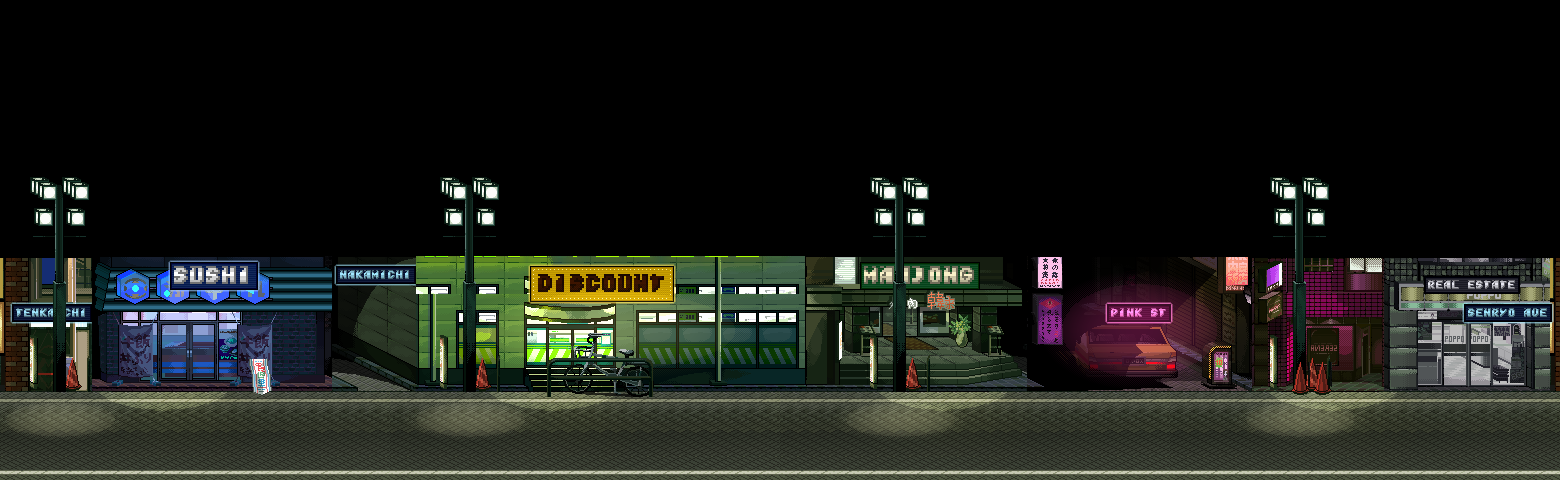
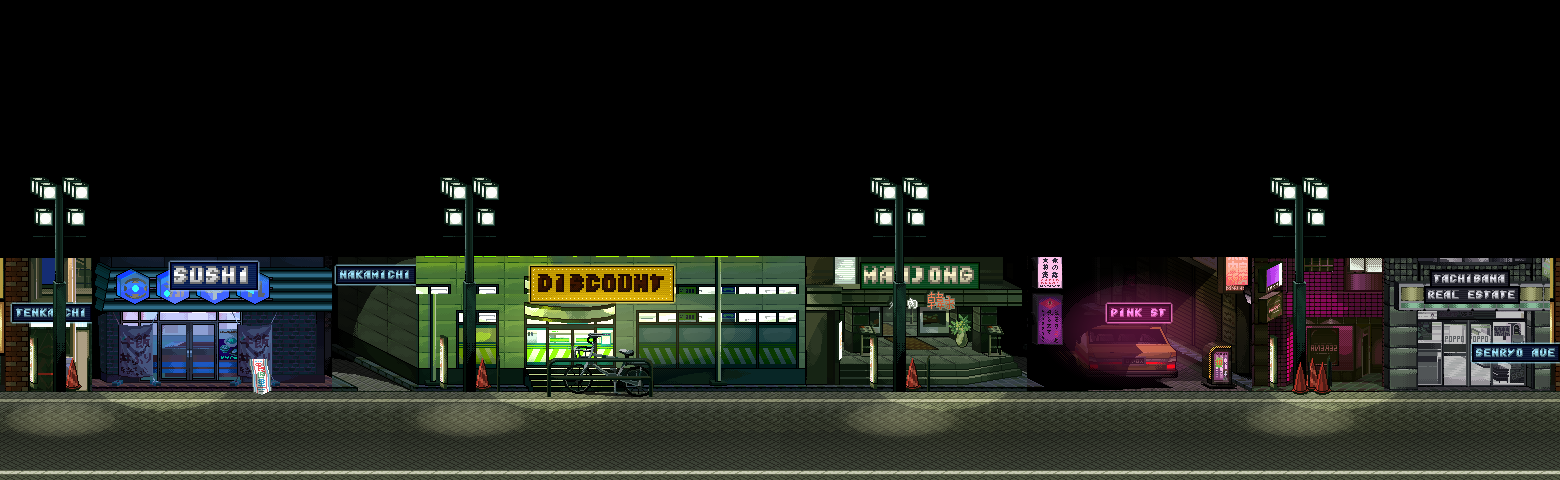
Yakuza 0's first chapter, Bound by Oath, after the prologue
At Heroine, Nishiki's toast to Kazama; the news of the shooting in the Empty Lot; Daisaku Kuze's boss fight there;
Kiryu leaving the Dojima family; and Tachibana Real Estate on Showa Street. Yakuza 0's story beats in this game's
own words, each next place flagged on the Map.

Claude-Session: https://claude.ai/code/session_01No5GwW2AvnCcQDGrNA3TLc

Changed region(s): [[0.8923, 0.5625, 1.0, 0.7812]]

diff --git a/ui/game.js b/ui/game.js
@@ -3022,7 +3022,7 @@
   const DOMINO_DUELISTS = { DominoHigh_Person12: "yugi", DominoHigh_Person13: "tea", DominoHigh_Person14: "joey", DominoHigh_Person15: "tristan" };
   // (The Time Machine off Pallet Town, and the Realm Hub's portals: timeMachine, realmPortal.)
   for (const sc of ["TimeMachine_EventScript_Machine", "TimeMachine_EventScript_Sign", "TimeMachine_EventScript_Scientist",
-    "RealmHub_EventScript_Portal_pokemon", "RealmHub_EventScript_Portal_yugioh", "RealmHub_EventScript_Portal_yakuza", "Kamurocho_TimeMachine", "Kamurocho_Kiryu", "Kamurocho_Majima", "Kamurocho_Clerk", "Kamurocho_Karaoke", "SacredCards_Fountain", "SacredCards_BackToTown",
+    "RealmHub_EventScript_Portal_pokemon", "RealmHub_EventScript_Portal_yugioh", "RealmHub_EventScript_Portal_yakuza", "Kamurocho_TimeMachine", "Kamurocho_Kiryu", "Kamurocho_Majima", "Kamurocho_Clerk", "Kamurocho_Karaoke", "Kamurocho_Tachibana", "SacredCards_Fountain", "SacredCards_BackToTown",
     "Domino_WorldMap", "KameGame_Grandpa", "Domino_Manhole", "Domino_ManholeUp", "Domino_TimeMachine", ...Object.keys(DOMINO_DUELISTS)]) SPECIAL.add(sc);
   // (and the other pupils and the teacher, with their boosters' decks: classmate)
   for (let i = 0; i < 12; i++) SPECIAL.add("DominoHigh_Person" + i);
@@ -3397,6 +3397,7 @@
     if (script === "Kamurocho_Majima") { await kamurochoMajima(ev.person); return; }
     if (script === "Kamurocho_Clerk") { await kamurochoShop(); return; }
     if (script === "Kamurocho_Karaoke") { await kamurochoKaraoke(); return; }
+    if (script === "Kamurocho_Tachibana") { await kamurochoTachibana(); return; }
     if (DOMINO_DUELISTS[script]) { await dominoDuel(DOMINO_DUELISTS[script], ev.person); return; }
     if (/^DominoHigh_Person([0-9]|1[01])$/.test(script || "")) { await dominoDuel(classmate(script), ev.person); return; }
     if (ev.person && ev.person.ferry && isSinnoh(ev.map)) { await sinnohFerry(ev.person); return; }
@@ -10202,7 +10203,7 @@
       if (wm) {
         const [wx, wy] = T(wm.at ? along(Mp[wm.at[0]].line, wm.at[1]) : along(wm.line, 0.5)).map(Math.round);
         sf.fill(wx, wy - 12, 1, 12, [240, 240, 240]); sf.fill(wx + 1, wy - 12, 6, 4, [232, 48, 48]); sf.fill(wx + 1, wy - 8, 4, 1, [232, 48, 48]);
-        sf.text("\u25b6 " + ((K.scenes[wp] || {}).title || wp), 150, 148, [255, 120, 120], INK, "small");
+        sf.text("\u25b6 " + ((K.scenes[wp] || {}).title || wm.title || wp), 150, 148, [255, 120, 120], INK, "small");
       }
       if (Mp[here] && Mp[here].line && blink) {
         const [x, y] = T(along(Mp[here].line, frac)).map(Math.round);
@@ -10336,20 +10337,138 @@
     await say(["Kiryu and Nishiki are headed for\nHeroine, the karaoke bar in Theater\nSquare.", "It's marked on your Map\n(START, then Map)."]);
     await persist();
   }
-  // (Coming into a street: a scene to play there, or reaching where the Map marks: for ui/street.js's enter.)
+  // (Coming into a street: a scene to play there, or reaching where the Map marks: for ui/street.js's enter. The
+  // story's step: flags.y0Step, "drinking" (at Heroine), "lot" (to the Empty Lot), "tachibana" (to Tachibana Real
+  // Estate on Showa Street), "done".)
   function kamurochoEnter(sceneId) {
     const f = player.flags;
     if (sceneId === "street" && !f.y0Prologue) return { type: "prologue" };
-    if (sceneId === "heroine" && f.kamurochoWaypoint === "heroine") return { type: "heroine" };
+    // (a save from before the story went on past Heroine: its evening there again)
+    if (sceneId === "heroine" && (f.kamurochoWaypoint === "heroine" || (f.y0Prologue && !f.y0Step))) return { type: "heroine" };
+    if (sceneId === "theater" && f.y0Step === "drinking") return { type: "y0-news" };
+    if (sceneId === "alley" && f.y0Step === "lot") return { type: "y0-lot" };
     return null;
   }
+  // Yakuza 0's first chapter, Bound by Oath, as this game tells it (its beats, in words of its own). At Heroine,
+  // Kiryu and Nishiki drink to the night and to Kazama, their oyaji, in prison.
   async function kamurochoHeroine() {
-    player.flags.kamurochoWaypoint = null;
-    await say(["Heroine's lights are low, and the\nkaraoke's loud.", "Nishiki: Hey, you made it! Grab a\nmic, the night's young!"]);
+    const f = player.flags;
+    f.kamurochoWaypoint = null; f.y0Step = "drinking";
+    await say(["Heroine's lights are low, and the\nkaraoke's loud.", "Nishiki: Hey, you made it! Kiryu,\nyou know this one? They're with us\ntonight.",
+      "Kiryu: ...Any friend of Nishiki's.", "Nishiki: To the Dojima family! And to\nKazama-san. May he get out of that\nprison before we're old men.",
+      "Kiryu: He took us in when nobody\nelse would. We owe him everything.", "Nishiki: That's why we've gotta make\nsomething of ourselves, brother.",
+      "Someday I'll have a family of my\nown. And you'll be right beside me.", "Kiryu: Heh. One drink at a time.",
+      "Nishiki: Now get up there and sing!\nThe stage is right over there."]);
     await persist();
   }
-  // The karaoke box off Theater Square (ui/karaoke.js, data/karaoke-songs.js): a song, sung; each song's best score
-  // kept (flags.karaoke), and the first time one scores 90 or more, a Staminan Spark on the house.
+  // Out into Theater Square: a Dojima man with the news. The man Kiryu collected from tonight is dead, shot in the
+  // Empty Lot, and the street says Kiryu did it.
+  async function kamurochoNews() {
+    const f = player.flags, here = Street.here() || { x: 1210, y: 440 };
+    await Street.cutscene([
+      { scene: "theater", cam: [1120, 440] },
+      { actor: "kiryu", sprite: "kiryu_idle", walk: "kiryu_idle_walk", x: 1200, y: 436, face: "left" },
+      { actor: "nishiki", sprite: "nishiki", walk: "nishiki_walk", x: 1250, y: 446, face: "left" },
+      { actor: "runner", sprite: "grunt_idle", walk: "grunt_idle_walk", x: 860, y: 444, face: "right" },
+      { walk: "runner", to: [1130, 444], speed: 2.6 },
+      { say: ["Dojima man: Kiryu-san! Thank god\nI found you!", "That guy you collected from\ntonight... they found him in the\nEmpty Lot.",
+        "Shot. Dead.", "Kiryu: ...What?", "Dojima man: The cops are crawling\nall over it. And the word on the\nstreet is...",
+        "...it was you, Kiryu-san.", "Kiryu: I roughed him up. That's all.\nHe walked away on his own two feet.",
+        "Nishiki: Somebody's setting you up,\nKiryu. That lot's trouble. The whole\nfamily wants it.",
+        "Kiryu: Then I'll go and see it for\nmyself."] },
+      { walk: "runner", to: [820, 444], speed: 2.6 },
+      { gone: "runner" }
+    ], { say });
+    f.y0Step = "lot"; f.kamurochoWaypoint = "alley";
+    show("street");
+    if (!inRealmParty("yakuza", "kiryu")) {
+      const P = realmParty("yakuza"), where = realmJoin(P, Ultimax.recruit("kiryu", Math.max(3, realmMe(P).lv)));
+      await fanfare("mus_obtain_key_item");
+      await say([realmWrap("Kiryu: You're coming too? ...Fine.\nStay close."), realmWrap("Kazuma Kiryu joined the party!" + JOINED[where])]);
+    }
+    await say(["The Empty Lot's marked on your Map:\noff the far end of the street, past\nBacchus."]);
+    await persist();
+  }
+  // The Empty Lot: the tiny lot the whole Tojo Clan wants, for the Kamurocho Revitalization Project, and now a
+  // murder scene. Daisaku Kuze, one of the Dojima family's lieutenants, comes for Kiryu: a fight. Beaten, he gets up
+  // again (he always does), and goes. Kiryu chooses to leave the family, so the shame is his, not Kazama's; Nishiki
+  // begs him not to.
+  async function kamurochoLot() {
+    const f = player.flags;
+    await Street.cutscene([
+      { scene: "alley", cam: [300, 446] },
+      { actor: "kiryu", sprite: "kiryu_idle", walk: "kiryu_idle_walk", x: 200, y: 448, face: "right" },
+      { say: ["The Empty Lot. Rope across it now,\nand a dark stain on the ground.", "Kiryu: One tsubo of dirt. Barely\nroom to stand.",
+        "And every family in the Tojo Clan\nwould kill for it.", "The Kamurocho Revitalization Project\ncan't break ground without it..."] },
+      { actor: "kuze", sprite: "grunt_idle", walk: "grunt_idle_walk", x: 660, y: 452, face: "left" },
+      { walk: "kuze", to: [420, 452], speed: 1.2 },
+      { face: "kiryu", dir: "right" },
+      { say: ["???: So the killer comes back to the\nscene. Ain't that just like a\npunk.", "Kiryu: ...Kuze-san.",
+        "Kuze: Daisaku Kuze, Dojima family\nlieutenant. Thanks to you, the\nfamily's name is mud.",
+        "A body on the one patch of dirt\nthe boss needs. You know what that\ndoes to us?",
+        "Kiryu: I didn't kill anyone.", "Kuze: Don't matter what you did.\nMatters what they're sayin'.",
+        "And a dog that shames its master\ngets put down. Hands up, Kiryu!"] }
+    ], { say });
+    show("street");
+    const r = await realmFight(["kuze"], { intro: "Daisaku Kuze wants to fight!", keepGoing: true });
+    if (r !== "won") {
+      await say(["Kuze: Hah! That the best the Dragon\nof Dojima's got?", "Come back when you've learned your\nplace. I'll be right here."]);
+      await persist();
+      return;
+    }
+    await Street.cutscene([
+      { scene: "alley", cam: [300, 446] },
+      { actor: "kiryu", sprite: "kiryu_idle", walk: "kiryu_idle_walk", x: 200, y: 448, face: "right" },
+      { actor: "kuze", sprite: "grunt_idle", walk: "grunt_idle_walk", x: 420, y: 452, face: "left" },
+      { say: ["Kuze hits the dirt... and gets\nright back up.", "Kuze: Heh... You hit like a truck,\nKiryu. But I ain't done.",
+        "A man ain't beaten till he stops\ngettin' up. Remember that.", "This ain't over. The family's gonna\nhave its pound of flesh."] },
+      { walk: "kuze", to: [680, 452], speed: 1.4 },
+      { gone: "kuze" },
+      { actor: "nishiki", sprite: "nishiki", walk: "nishiki_walk", x: -20, y: 452, face: "right" },
+      { walk: "nishiki", to: [130, 452], speed: 2.2 },
+      { face: "kiryu", dir: "left" },
+      { say: ["Nishiki: Kiryu! I heard about Kuze.\nYou alright?", "Kiryu: Nishiki. I've made up my\nmind.",
+        "I'm leaving the Dojima family.", "Nishiki: What?! Are you out of your\nmind? After everything?",
+        "Kiryu: As long as I'm in the family,\nthis shame lands on Kazama-san.", "If I'm out, it's only mine. I'll\nclear my name on my own.",
+        "Nishiki: ...You stubborn idiot.\nYou never could do it any other way.", "Fine. But I'm still your brother.\nCall me if you need me.",
+        "Kiryu: Look after Kazama-san's place\nin the family for me."] },
+      { walk: "nishiki", to: [-40, 452], speed: 1.6 },
+      { gone: "nishiki" },
+      { say: ["Kiryu: ...Someone wanted me in the\nframe for this. And someone owns\nthis lot.", "If the family won't find out who,\nI will.",
+        "End of Chapter 1: Bound by Oath."] }
+    ], { say });
+    f.y0Step = "tachibana"; f.kamurochoWaypoint = "tachibana";
+    show("street");
+    await say(["Word is a real estate firm on Showa\nStreet knows plenty about the Empty\nLot.", "Tachibana Real Estate is marked on\nyour Map."]);
+    await persist();
+  }
+  // Tachibana Real Estate, on Showa Street: Kiryu, out of the family, meets Tetsu Tachibana, its young boss, and
+  // Makoto Oda, his man. They're after the Empty Lot too, and they'll help him find who's behind it.
+  async function kamurochoTachibana() {
+    const f = player.flags;
+    if (f.y0Step !== "tachibana") {
+      await say(f.y0Step === "done" ? ["Oda: The boss is out on business.\nWe'll find that lot's owner, Kiryu.\nJust you wait."]
+        : ["Tachibana Real Estate. The blinds\nare down, and nobody answers."]);
+      return;
+    }
+    await Street.cutscene([
+      { scene: "showa", cam: [1440, 440] },
+      { actor: "kiryu", sprite: "kiryu_idle", walk: "kiryu_idle_walk", x: 1300, y: 446, face: "right" },
+      { actor: "oda", sprite: "host_idle", x: 1500, y: 440, face: "left" },
+      { say: ["Oda: Kazuma Kiryu, right? Formerly of\nthe Dojima family. News travels\nfast round here.",
+        "Name's Makoto Oda. My boss has been\nwanting to meet you."] },
+      { actor: "tachibana", sprite: "salaryman_idle", x: 1560, y: 430, face: "left" },
+      { walk: "kiryu", to: [1420, 446] },
+      { say: ["Tachibana: Tetsu Tachibana. This\nhumble office is mine.", "You've been framed over the Empty\nLot. We'd like to know who owns it\nas much as you would.",
+        "Every developer and every Tojo family\nin town is chasing that one tsubo.", "Someone's hiding its owner. Find them,\nand you'll find who set you up.",
+        "Work with us, Kiryu-san. We have the\nmoney and the paperwork. You have\nthe fists.",
+        "Kiryu: ...I'm not much for real\nestate.", "Tachibana: You will be. Kamurocho's\nland is worth more than gold right\nnow.",
+        "Kiryu: Fine. Until my name's clean.", "To be continued..."] }
+    ], { say });
+    f.y0Step = "done"; f.kamurochoWaypoint = null;
+    show("street");
+    await persist();
+  }
   async function kamurochoKaraoke() {
     await say("Welcome to the karaoke box!\nPick a song and give it your all!");
     const S = window.KARAOKE_SONGS, best = player.flags.karaoke = player.flags.karaoke || {};
@@ -16044,6 +16163,8 @@
     } else if (ev.type === "say") await say(ev.pages);
     else if (ev.type === "prologue") await kamurochoPrologue();
     else if (ev.type === "heroine") await kamurochoHeroine();
+    else if (ev.type === "y0-news") await kamurochoNews();
+    else if (ev.type === "y0-lot") await kamurochoLot();
     else if (ev.type === "talk") await story({ type: "talk", person: ev.person, map: "Kamurocho" });
     else if (ev.type === "spot") await story({ type: "talk", person: { script: ev.script }, map: "Kamurocho" });
     // (A gang that walked up to you: that gang, its leader's line first.)

diff --git a/data/kamurocho-street.js b/data/kamurocho-street.js
@@ -68,7 +68,7 @@ window.KAMUROCHO_STREET = {
       champion: { line: [[314, 226], [340, 226], [340, 208], [358, 208], [358, 226], [368, 226]], w: 1 },
       "nakamichi-alley": { line: [[142, 338], [170, 338], [170, 322], [197, 322]], w: 1 },
       "pink-alley": { line: [[306, 344], [368, 344]], w: 1 },
-      heroine: { at: ["theater", 0.94] }, poppo: { at: ["street", 0.24] }, backlot: { at: ["street", 0.17] }, sewer: { at: ["street", 0.17] }, bacchus: { at: ["street", 0.97] }
+      heroine: { at: ["theater", 0.94] }, tachibana: { at: ["showa", 0.94], title: "Tachibana Real Estate" }, poppo: { at: ["street", 0.24] }, backlot: { at: ["street", 0.17] }, sewer: { at: ["street", 0.17] }, bacchus: { at: ["street", 0.97] }
     }
   },
   scenes: {
@@ -270,6 +270,8 @@ window.KAMUROCHO_STREET = {
         { edge: "right", to: "senryo", x: 30, y: 440, facing: "right" },
         { spot: [332, 416, 410, 426], to: "nakamichi", x: 1370, y: 440, facing: "left", text: "Nakamichi Street" },
         { spot: [1037, 1242, 410, 426], to: "pink", x: 30, y: 440, facing: "right", text: "Pink Street" }],
+      // (Tachibana Real Estate's door: the story's, ui/game.js kamurochoTachibana)
+      spots: [{ x0: 1400, x1: 1540, y0: 410, y1: 426, script: "Kamurocho_Tachibana", text: "Tachibana Real Estate" }],
       people: [
         { script: "Kamurocho_Bargain", sprite: "tourist", walk: "tourist_walk", range: 80, x: 320, y: 444, face: "right",
           text: ["The discount store's got\neverything. Everything!", "I came for toothpaste. I'm\nleaving with a massage chair."] },

diff --git a/data/type-chart.js b/data/type-chart.js
@@ -481,6 +481,9 @@ window.REALM_FOES = {
   biker:     { name: "Biker", lv: 7,           elements: ["Neutral"], street: "biker", sprite: "sc_person_58", hp: 34, mp: 0, str: 17, def: 12, int: 14, wis: 6, spd: 11, exp: 16, money: 300, skills: ["revving"] },
   grunt:     { name: "Yakuza Grunt", lv: 9,    elements: ["Neutral"], street: "grunt", sprite: "sc_person_77", hp: 40, mp: 0, str: 19, def: 14, int: 0, wis: 7, spd: 10, exp: 22, money: 500, skills: ["headbutt"] },
   shakedown: { name: "Mr. Shakedown", lv: 15,   elements: ["Neutral"], street: "shakedown", sprite: "sc_person_71", big: true, hp: 160, mp: 0, str: 32, def: 22, int: 0, wis: 11, spd: 6, exp: 150, money: 10000, skills: ["haymaker"] },
+  // (the story's: Daisaku Kuze, the Dojima family lieutenant who comes for Kiryu at the Empty Lot)
+  kuze:      { name: "Daisaku Kuze", lv: 6,     elements: ["Neutral"], street: "grunt", sprite: "sc_person_77", boss: true,
+               hp: 120, mp: 0, str: 20, def: 14, int: 0, wis: 6, spd: 9, exp: 120, money: 3000, skills: ["haymaker", "headbutt"] },
   majima:    { name: "Goro Majima", lv: 12,     elements: ["Dark"], street: "majima", boss: true,
                hp: 260, mp: 99, str: 34, def: 18, int: 0, wis: 9, spd: 22, exp: 300, money: 0, skills: ["mad_dog_lunge", "breaker_spin", "slugger_swing"] }
 };

diff --git a/tests/smoke-test.js b/tests/smoke-test.js
@@ -7394,6 +7394,8 @@ console.log("ok: Gen 9, " + GEN9 + " random battles finished (" + gen9Turns + " 
     // (the karaoke box: its spot, and each song's words within its bars, each line done before the next, a
     // syllable a note)
     assert(K.scenes.heroine.spots.some((sp) => sp.script === "Kamurocho_Karaoke") && K.scenes.theater.exits.some((e) => e.to === "heroine"), "Heroine, the karaoke bar");
+    // (Yakuza 0's first chapter: Kuze to fight at the Empty Lot, Tachibana Real Estate's door on Showa Street and on the Map)
+    assert(window.REALM_FOES.kuze && window.REALM_FOES.kuze.boss && K.scenes.showa.spots.some((sp) => sp.script === "Kamurocho_Tachibana") && K.map.scenes.tachibana.title, "Bound by Oath");
     // (every realm… and kamurocho… function ui/game.js calls is one it defines: a missing one hangs the game where it's
     // called, as realmPoints once did after a level-up)
     {

diff --git a/tools/build-kamurocho-streets.py b/tools/build-kamurocho-streets.py
@@ -405,7 +405,7 @@ def showa(P, atlas):
     # Showa Street, along the south, west to east from the foot of Tenkaichi Street: a sushi counter (the gyudon
     # front, relit), the foot of Nakamichi Street (the shadowed passage), the discount store (the batting centre's
     # block, gone yellow, its board in bulbs), a mahjong parlour up its stairs (the yakiniku place's), the foot of
-    # Pink Street (the taxi's passage, lit pink), a bar (Serena's, turned round), the real estate office (Poppo's
+    # Pink Street (the taxi's passage, lit pink), a bar (Serena's, turned round), Tachibana Real Estate (Poppo's
     # front, dimmed), a block; Senryo Avenue at its east end.
     S.bay(P['block'])
     S.at(neon(board(atlas, 'TENKAICHI', *BLUE, 1), BLUE[1]), 8, 300)
@@ -421,9 +421,10 @@ def showa(P, atlas):
     light(S.im, x + 112, 330, 100, 60, (255, 60, 170), 0.3)
     S.bay(mirror(hue(P['serena'], 200, 1.1)))
     x = S.bay(hue(P['poppo'], 60, 0.4, 0.75))
-    S.at(board(atlas, 'REAL ESTATE', (40, 40, 50), (230, 230, 240), 1), x + 40, 276)
+    S.at(board(atlas, 'TACHIBANA', (40, 40, 50), (230, 230, 240), 1), x + 46, 270)   # (Tachibana Real Estate: the story's)
+    S.at(board(atlas, 'REAL ESTATE', (40, 40, 50), (230, 230, 240), 1), x + 40, 286)
     S.fill(P['block'], P['shadow'])
-    S.at(neon(board(atlas, 'SENRYO AVE', *BLUE, 1), BLUE[1]), 1460, 300)
+    S.at(neon(board(atlas, 'SENRYO AVE', *BLUE, 1), BLUE[1]), 1468, 340)
     lamps(S, P, (60, 470, 900, 1300))
     S.put(P['bike'], 600, BASE + 6); S.put(P['cone'], 1300, BASE + 4); S.put(P['cone'], 1322, BASE + 4)
     S.put(P['menu1'], 260, BASE + 4)

diff --git a/README.md b/README.md
@@ -3683,7 +3683,16 @@ balls here (bring them along at the Time Machine to fight), and there are no wil
   `tools/build-kamurocho-sok.py`'s `nishiki`) finds him and takes him off to **Heroine**, the karaoke bar in Theater
   Square (its pink neon on the square; inside, this game's own: the bar, a booth, the stage and its screen,
   `tools/build-kamurocho-insides.py`). Then you have yourself back, and Heroine's flagged on the Map
-  (`flags.kamurochoWaypoint`) till you walk in; Kiryu and Nishiki are there, and Kiryu joins you there.
+  (`flags.kamurochoWaypoint`) till you walk in; Kiryu and Nishiki are there, and Kiryu joins you there. Then the rest of
+  **Chapter 1, Bound by Oath**, Yakuza 0's story beats in this game's own words (`flags.y0Step`): at Heroine, Nishiki
+  toasts Kazama in prison and his dream of a family of his own; out in Theater Square, a Dojima man brings the news
+  that the man Kiryu collected from was found shot dead in the Empty Lot, and the street says Kiryu did it (Kiryu
+  joins you then if he hasn't); at the Empty Lot, the one tsubo every Tojo family wants for the Kamurocho
+  Revitalization Project, Dojima lieutenant **Daisaku Kuze** comes for him: a boss fight (`REALM_FOES.kuze`; lose and
+  he waits for you to come back). Beaten, Kuze gets back up and goes; Kiryu leaves the Dojima family to keep the
+  shame off Kazama, Nishiki begging him not to. Last, **Tachibana Real Estate** on Showa Street (its door a spot;
+  the Map flags it): Makoto Oda and Tetsu Tachibana, who want the Empty Lot's hidden owner found as much as Kiryu
+  does. To be continued.
   **Karaoke** (Yakuza 0's, this game's way: `ui/karaoke.js`): in Heroine, on its stage, A, and pick a song (`data/karaoke-songs.js`, this game's own words and
   tunes: Kamurocho Nights, 24-Hour Champion and Dojima Blues). It plays on a GBA's kind of sound, its own sequencer
   (two pulse waves, a triangle bass and noise drums, through the game's volume), so every prompt falls on its note;
